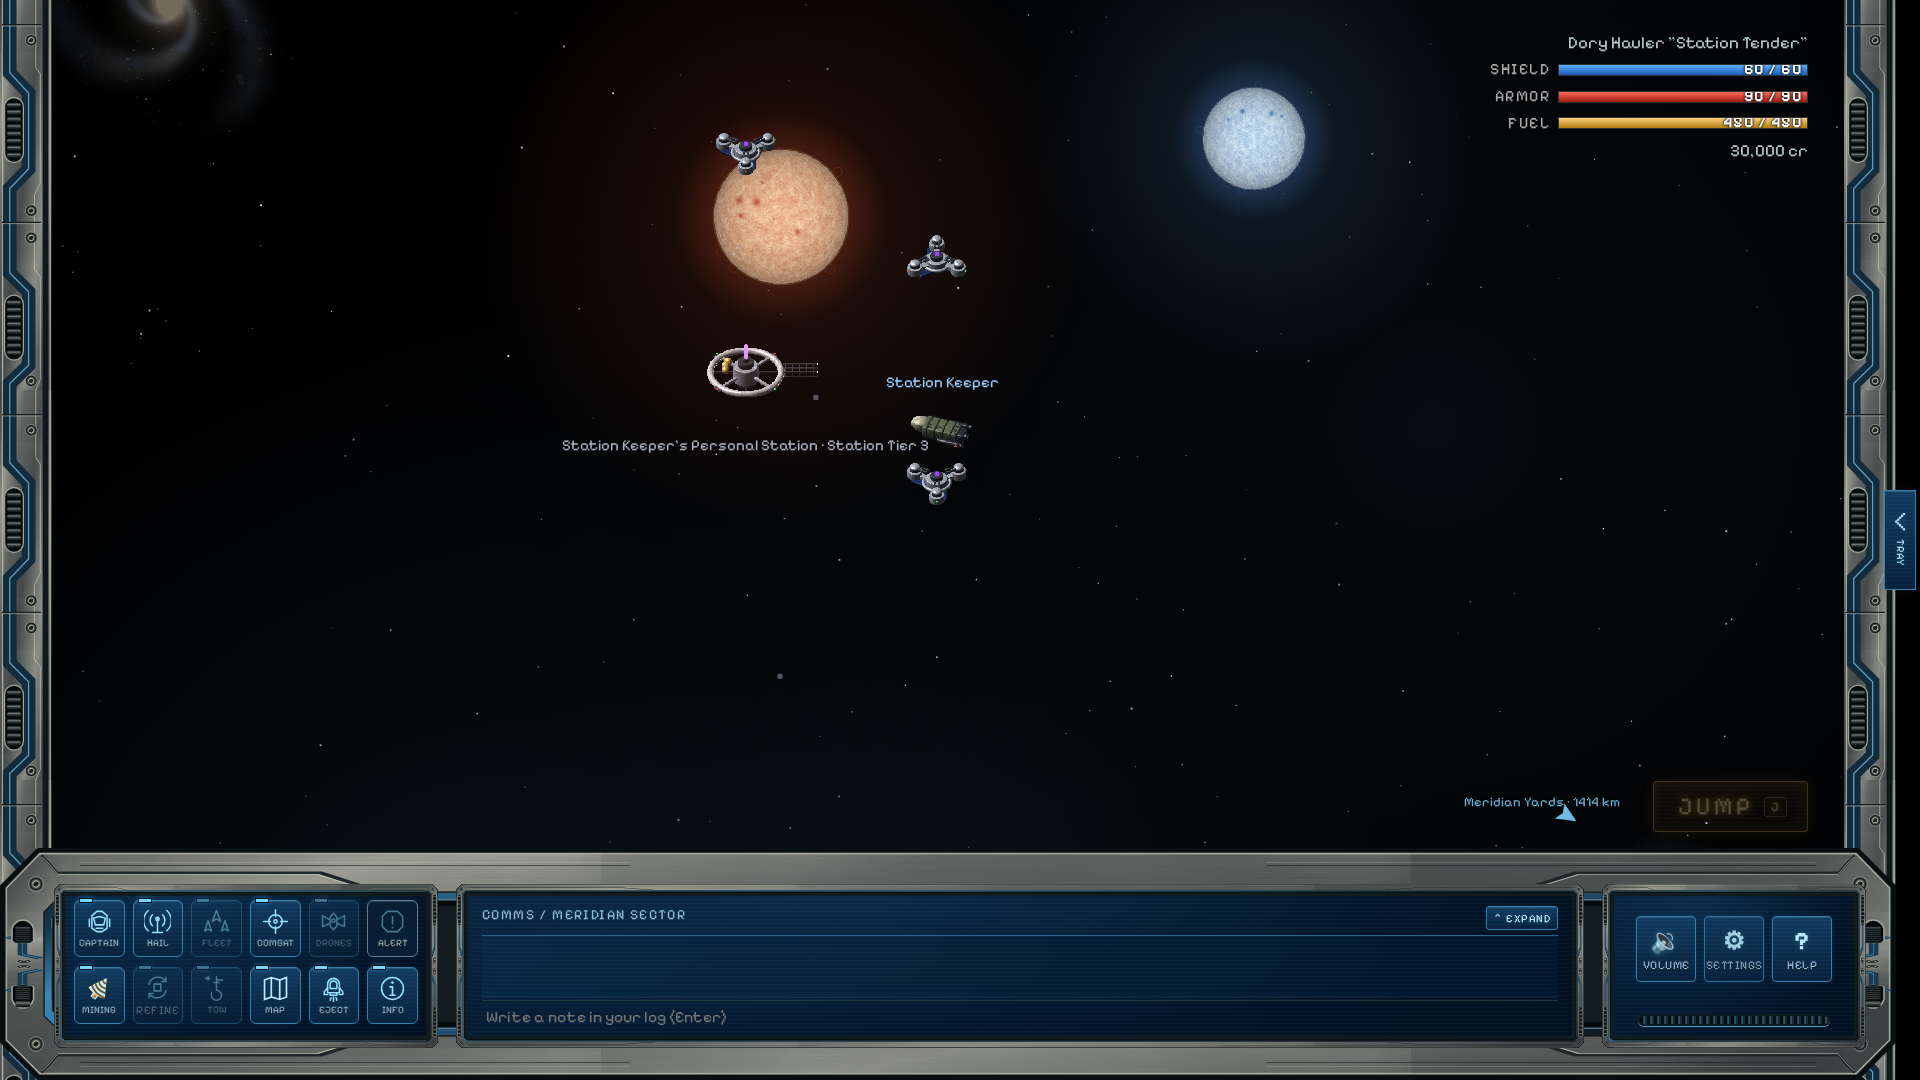
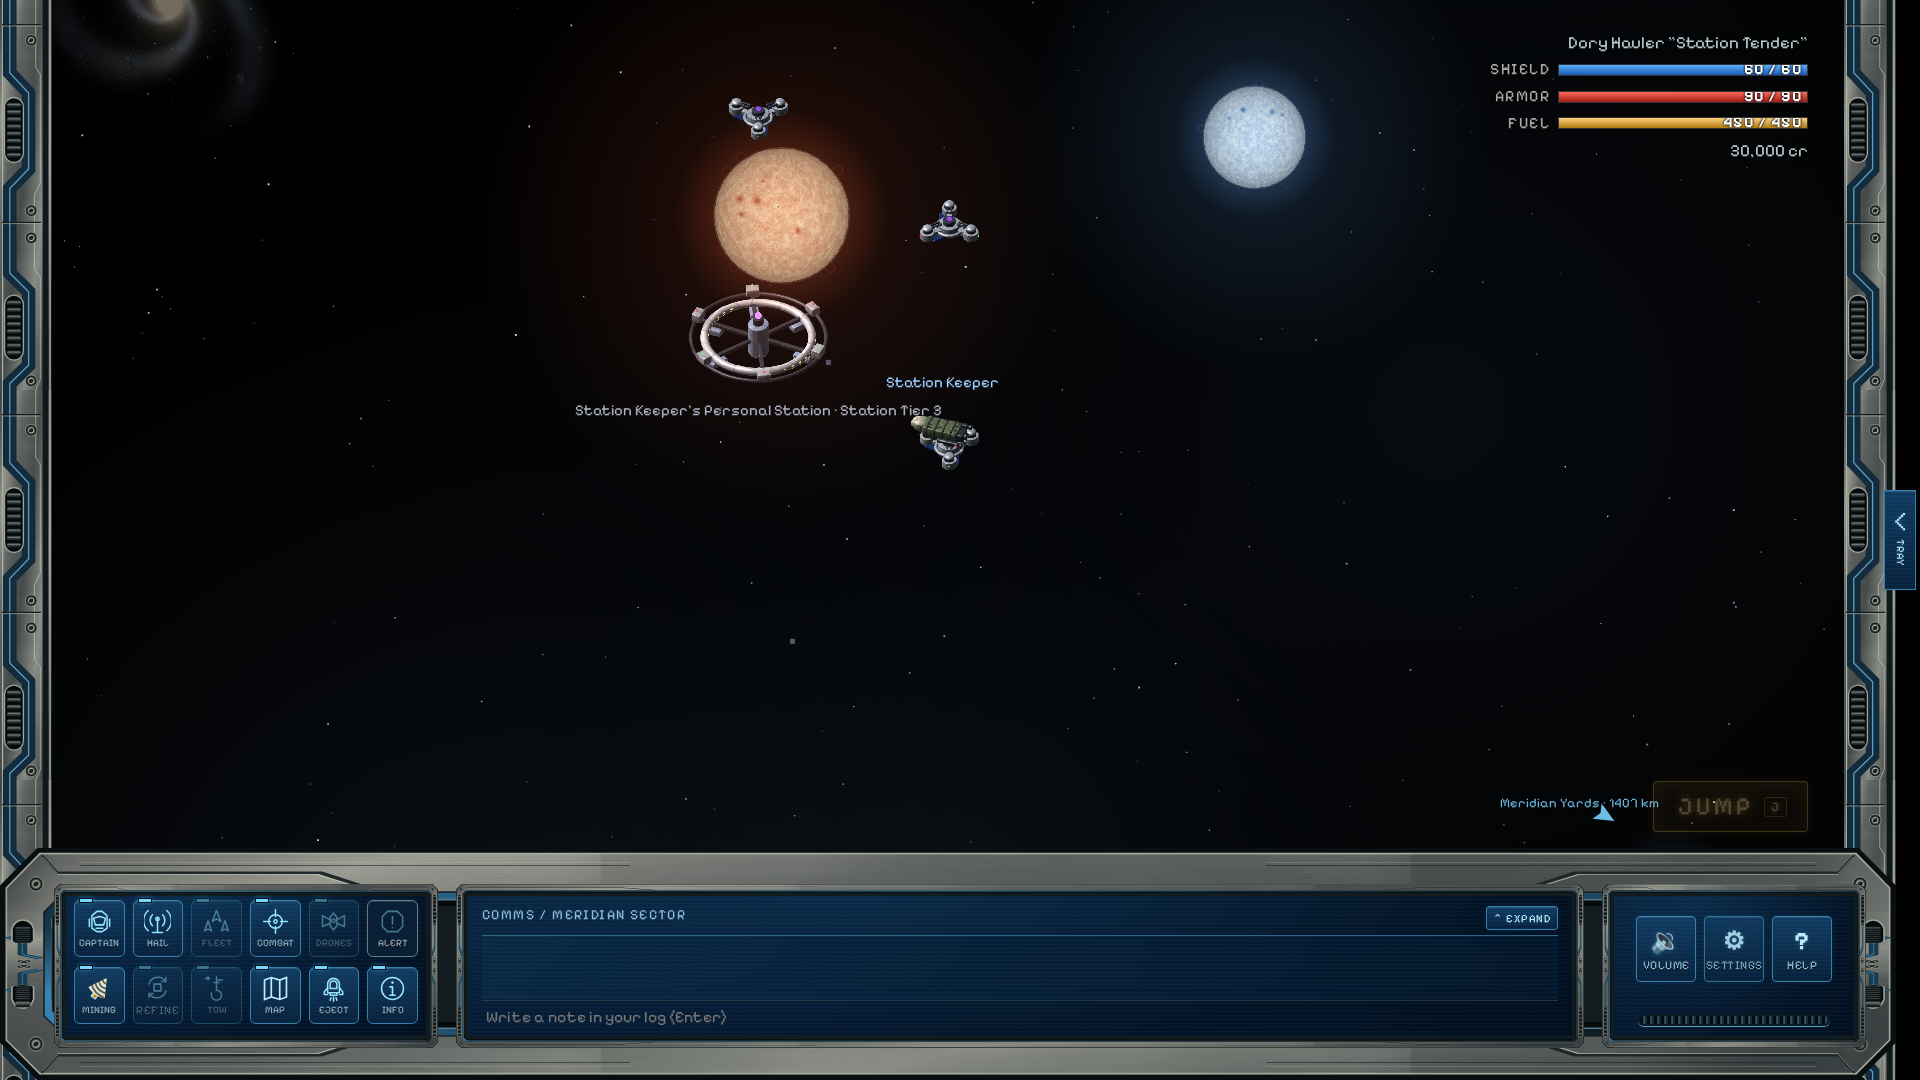
feat(art): refresh station hulls and player tiers

diff --git a/tools/rift_stations.py b/tools/rift_stations.py
@@ -1,8 +1,9 @@
 """Quantum Rift: rendered space stations for the 78 station worlds.
 Twelve designs built from the hull pipeline's primitives (tools/rift_render3d.py) and rendered in the same lit, panelled
-3D style as the ships. Output: client/assets/stations/s_<design>.webp
+3D style as the ships. Output: client/assets/stations/s_<design>.webp and player tiers 0.png–5.png
 usage: python3 tools/rift_stations.py client/assets/stations [only]      (needs numpy and Pillow)"""
-import sys, os, math
+import sys, os, math, copy
+import rift_render3d as renderer
 sys.path.insert(0, os.path.dirname(os.path.abspath(__file__)))
 import numpy as np
 from PIL import Image
@@ -138,11 +139,89 @@ def junk():
     return M
 DESIGNS = dict(ring=ring_station, spindle=spindle, cross=cross_dock, rock=asteroid_base, twin=twin_ring, yard=shipyard, disc=disc, hive=hive, crystal=crystal, reef=reef, forge=forge, junk=junk)
 
+def upgrade(meshes, design):
+    """Apply satin hull materials without changing the shared renderer's source materials."""
+    mapped_materials = {}
+    for mesh in meshes:
+        original_material = mesh.m
+        if original_material not in mapped_materials:
+            material = copy.deepcopy(renderer.MATS[original_material])
+            if material['emissive'] is None:
+                material['panel'] *= .2
+                material['grime'] *= .25
+                material['metal'] *= .5
+                material['rough'] = max(.65, material['rough'])
+                if material['glass']:
+                    material.update(glass=False, color=np.array([.24, .43, .5]),
+                                    rough=.85, metal=.16, panel=0)
+            renderer.MATS.append(material)
+            mapped_materials[original_material] = len(renderer.MATS) - 1
+        mesh.m = mapped_materials[original_material]
+    trim = mat((.22, .27, .31), metal=.25, rough=.75, panel=0, grime=0)
+    hull = mat((.64, .69, .73), metal=.25, rough=.75, panel=.12, grime=.1)
+    if design == 'ring':
+        for index in range(6):
+            meshes += [arm(index * math.pi / 3, .19, .68, .035, trim)]
+        meshes += [flat_torus(.72, .018, trim, z=.075)]
+    if design == 'spindle':
+        for offset in (-.55, .55):
+            meshes += [block((0, offset, -.035), (.24, .045, .025), trim)]
+    if design == 'yard':
+        for sign in (-1, 1):
+            meshes += [block((0, sign * .32, .18), (.80, .025, .025), hull),
+                       block((0, sign * .42, 0), (.23, .025, .11), trim)]
+    if design == 'rock':
+        for x, y, z, radius in [(.15, .1, .42, .16), (-.25, -.2, .35, .11)]:
+            meshes += [flat_torus(radius, .023, trim, z=z - .025).tf(
+                lambda vertices, x=x, y=y: vertices + np.array([x, y, 0]))]
+    if design == 'crystal':
+        meshes += [zcyl((0, 0, -.025), .27, .07, trim)]
+    return meshes
+
+def player_station(tier=5):
+    """Operations tiers add habitat, docks, service pods, solar arrays and a deck."""
+    meshes = [zcyl((0, 0, 0), .14, .24, HULLB),
+              zcyl((0, 0, .29), .07, .05, DARK),
+              sphere((0, 0, .37), .045, GVIOLET)]
+    if tier >= 1:
+        meshes += [flat_torus(.70, .055, HAB), flat_torus(.88, .025, DARK)]
+        for index in range(6):
+            meshes += [arm(index * math.pi / 3, .12, .88, .025, DARK)]
+    if tier >= 2:
+        for index in range(6):
+            angle = index * math.pi / 3
+            meshes += [rot_z(block((.86, 0, .07), (.065, .085, .06), HULL), angle),
+                       light(angle, .88, .15, LRED if index % 2 else LGREEN, .012)]
+    if tier >= 3:
+        for index in range(6):
+            meshes += [rot_z(block((.64, 0, -.10), (.12, .06, .045), HULLB), index * math.pi / 3)]
+    if tier >= 4:
+        for sign in (-1, 1):
+            meshes += [block((0, sign * .62, -.12), (.19, .015, .015), DARK),
+                       panel(-.22, sign * .62 - .11, .22, sign * .62 + .11, -.13, SOLAR)]
+    if tier >= 5:
+        meshes += [block((.74, 0, .09), (.24, .10, .018), DARK)]
+    return meshes
+
 if __name__ == '__main__':
     os.makedirs(OUT, exist_ok=True)
     for nm, fn in DESIGNS.items():
         if ONLY and nm != ONLY: continue
-        M = fn(); V = np.concatenate([m.V for m in M]); r = np.sqrt(V[:, 0] ** 2 + V[:, 1] ** 2 + (V[:, 2] * 0.8) ** 2).max()
+        M = fn()
+        if nm in ('ring', 'spindle', 'yard', 'rock', 'crystal'):
+            M = upgrade(M, nm)
+        V = np.concatenate([m.V for m in M]); r = np.sqrt(V[:, 0] ** 2 + V[:, 1] ** 2 + (V[:, 2] * 0.8) ** 2).max()
         size = 360; o = render(M, size, 25, size * 0.46 / r, tilt=50, density=10, ss=3); rgb, a = o[0]
         img = np.dstack([np.clip(rgb, 0, 1) * 255, a * 255]).round().astype(np.uint8)
         Image.fromarray(img, 'RGBA').save(os.path.join(OUT, f's_{nm}.webp'), 'WEBP', quality=88, method=6); print(nm, flush=True)
+
+    if ONLY in (None, 'player'):
+        # Keep a common frame scale so construction adds structure rather than resizing the core.
+        developed = player_station(5)
+        extent = np.linalg.norm(np.concatenate([mesh.V for mesh in developed]), axis=1).max()
+        for tier in range(6):
+            meshes = upgrade(player_station(tier), 'player')
+            rgb, alpha = render(meshes, 360, 25, 360 * .43 / extent, tilt=50, density=10, ss=3)[0]
+            pixels = np.dstack([np.clip(rgb, 0, 1) * 255, np.clip(alpha, 0, 1) * 255]).round().astype(np.uint8)
+            Image.fromarray(pixels, 'RGBA').save(os.path.join(OUT, f'{tier}.png'))
+            print(f'player tier {tier}', flush=True)

diff --git a/README.md b/README.md
@@ -95,7 +95,7 @@ One slow patrol moves through Concord territory: a Concordance flagship, a carri
 
 ![Concord security patrol in Concordia, with the redesigned Concordance, carrier and escorts](docs/screenshots/qcs-patrol.png)
 
-![Permanent Triad Sentinel platforms guarding an operating Personal Station](docs/screenshots/triad-sentinels-flight.png)
+![Satin-hulled Personal Station with a habitat ring, docking pods and three permanent Triad Sentinel guards](docs/screenshots/triad-sentinels-flight.png)
 
 **Flight controls**
 
